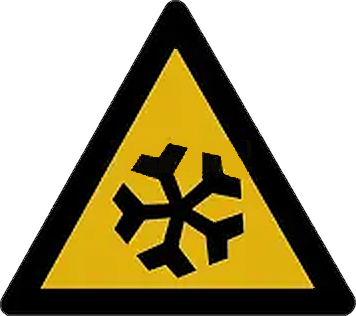
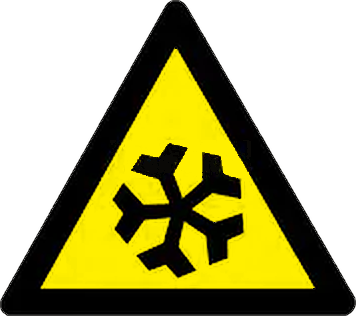
snow-outlook: hourly snow ribbon, natural-language subtitle, canary-yellow accent, °F beside current temp
- fetch.py: hourly snowfall/probability, per-day snow windows
- subtitle.luau: 58 templates keyed to today's/upcoming snow
- ribbon: 24h fixed-scale intensity strip with now-dot
- bordered Today pill and temp card; brighter header text
- storm icon recolored #FFEF00 (variants kept in assets/variants)

Changed region(s): [[0.0927, 0.1424, 0.8961, 0.9399]]

diff --git a/noctalia-plugins/snow-outlook/fetch.py b/noctalia-plugins/snow-outlook/fetch.py
@@ -4,7 +4,7 @@ import json, os, sys, urllib.request
 
 loc = json.load(open(os.path.expanduser("~/.cache/noctalia/location.json")))
 url = ("https://api.open-meteo.com/v1/forecast?latitude=%s&longitude=%s"
-       "&current=temperature_2m,apparent_temperature,wind_speed_10m&hourly=temperature_2m&daily=snowfall_sum,weather_code,temperature_2m_max,temperature_2m_min,precipitation_probability_max,sunrise,sunset"
+       "&current=temperature_2m,apparent_temperature,wind_speed_10m&hourly=temperature_2m,snowfall,precipitation_probability&daily=snowfall_sum,weather_code,temperature_2m_max,temperature_2m_min,precipitation_probability_max,sunrise,sunset"
        "&wind_speed_unit=mph&precipitation_unit=inch&forecast_days=7&timezone=auto"
        % (loc["latitude"], loc["longitude"]))
 r = json.load(urllib.request.urlopen(url, timeout=15))
@@ -15,8 +15,27 @@ days = []
 for t, s, c, hi, lo, p in zip(d["time"], d["snowfall_sum"], d["weather_code"], d["temperature_2m_max"], d["temperature_2m_min"], d["precipitation_probability_max"]):
     s = s or 0
     days.append({"date": t, "snow": s >= 0.05 or c in SNOW_CODES, "inches": round(s, 1), "hi": round(hi), "lo": round(lo), "pct": p or 0})
+sf = r["hourly"]["snowfall"]
+for i, day in enumerate(days):
+    v = [x or 0 for x in sf[24 * i:24 * i + 24]]
+    on = [k for k, x in enumerate(v) if x >= 0.01]
+    if on:
+        day.update({"from": on[0], "to": on[-1] + 1, "peak": v.index(max(v))})
+pop = [x or 0 for x in r["hourly"]["precipitation_probability"][:24]]
+FAKE = os.path.expanduser("~/.cache/noctalia/snow-fake")  # touch to enable demo data, rm to disable
+fake_now = None
+if os.path.exists(FAKE):
+    prof = [0, .02, .05, .12, .2, .14, .06, .02]  # 1pm-8pm
+    sf = [0.0] * 24
+    for k, x in enumerate(prof): sf[13 + k] = x
+    for i, (inch, f, t, pk) in {0: (0.6, 13, 21, 17), 1: (1.4, 9, 18, 13), 3: (5.2, 18, 24, 21)}.items():
+        days[i].update({"snow": True, "inches": inch, "pct": 85, "from": f, "to": t, "peak": pk})
+    days[2].update({"snow": False, "inches": 0, "from": None, "to": None, "peak": None})
+    pop = [10] * 24
+    for k, x in enumerate([30, 45, 60, 75, 90, 80, 55, 30]): pop[13 + k] = x
+    fake_now = 16
 def hr(x): return round(int(x[11:13]) + int(x[14:16]) / 60, 2)
 sun = {"sunrise": hr(d["sunrise"][0]), "sunset": hr(d["sunset"][0])}
 h = r["hourly"]["temperature_2m"]
 periods = [{"name": n, "c": round(h[i]), "f": round(h[i] * 9 / 5 + 32)} for n, i in (("Morning", 8), ("Afternoon", 14), ("Evening", 21))]
-json.dump({"periods": periods, "hourly": [round(x, 1) for x in h[:24]], "place": loc.get("name", ""), "now_c": round(now_c), "now_f": round(now_c * 9 / 5 + 32), "feels_c": round(r["current"]["apparent_temperature"]), "wind": round(r["current"]["wind_speed_10m"]), "days": days, **sun}, sys.stdout)
+json.dump({"pop_hourly": pop, "snow_hourly": [round(x or 0, 2) for x in sf[:24]], "now_hour": fake_now if fake_now is not None else int(r["current"]["time"][11:13]), "periods": periods, "hourly": [round(x, 1) for x in h[:24]], "place": loc.get("name", ""), "now_c": round(now_c), "now_f": round(now_c * 9 / 5 + 32), "feels_c": round(r["current"]["apparent_temperature"]), "wind": round(r["current"]["wind_speed_10m"]), "days": days, **sun}, sys.stdout)
